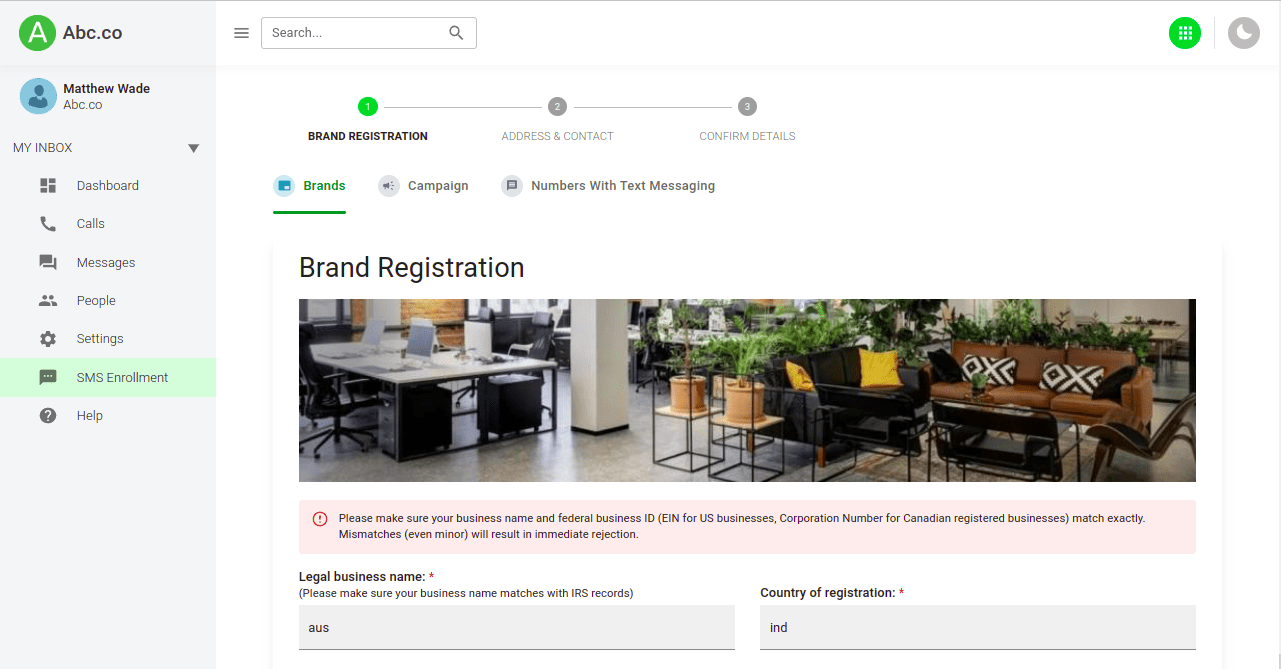
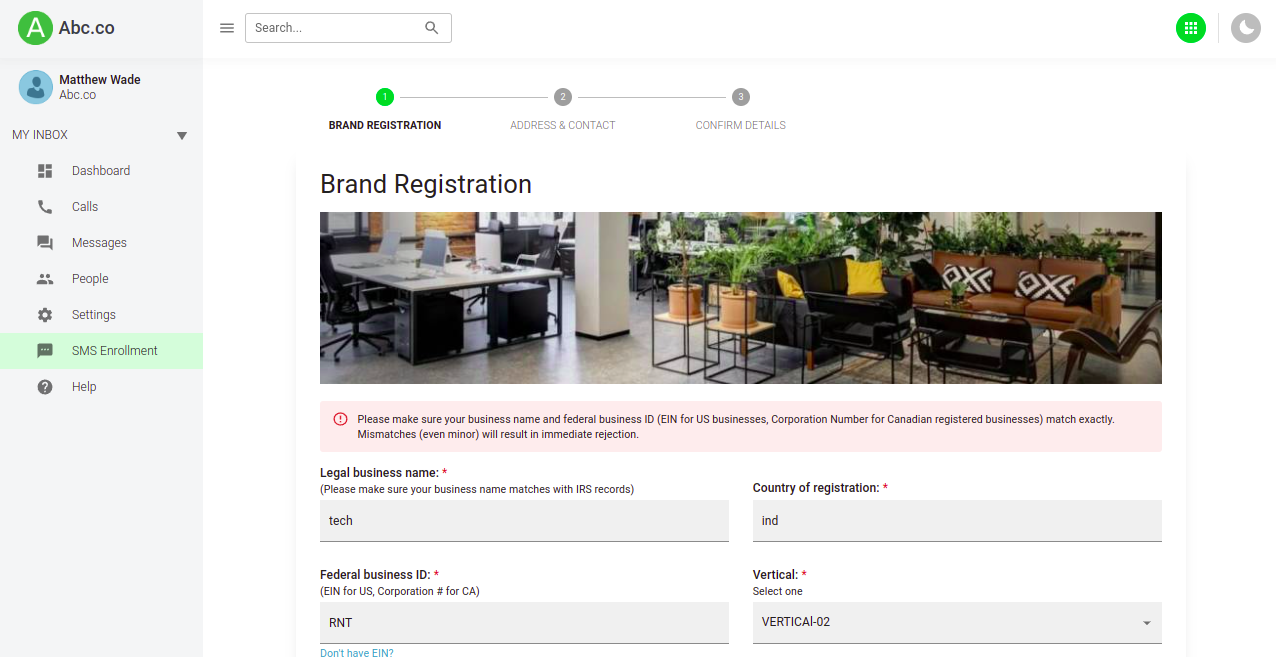
remove tabs-update photo

diff --git a/src/components/routes/Navigations.tsx b/src/components/routes/Navigations.tsx
@@ -9,9 +9,9 @@ const Navigations = () => {
   return (
     <Suspense fallback={<SuspenseProgressBar />}>
       <Routes>
-        <Route path="/" element={<Dashboard />} />
+        {/* <Route path="/" element={<Dashboard />} /> */}
         <Route path="/sms-enrollment" element={<SMSEnrollment />} />
-        <Route path="*" element={<Navigate to="/" replace />} />
+        <Route path="*" element={<Navigate to="/sms-enrollment" replace />} />
       </Routes>
     </Suspense>
   );

diff --git a/src/pages/SMS/Index.tsx b/src/pages/SMS/Index.tsx
@@ -30,7 +30,7 @@ const HorizontalLinearStepper = () => {
   return (
     <Box sx={{ width: "100%", p: { xs: 1, md: 2, lg: 3 } }}>
       <StepperBar activeStep={activeStep} />
-      <Tabs />
+      {/* <Tabs /> */}
       <Steps
         stepperHookParams={[
           activeStep,
